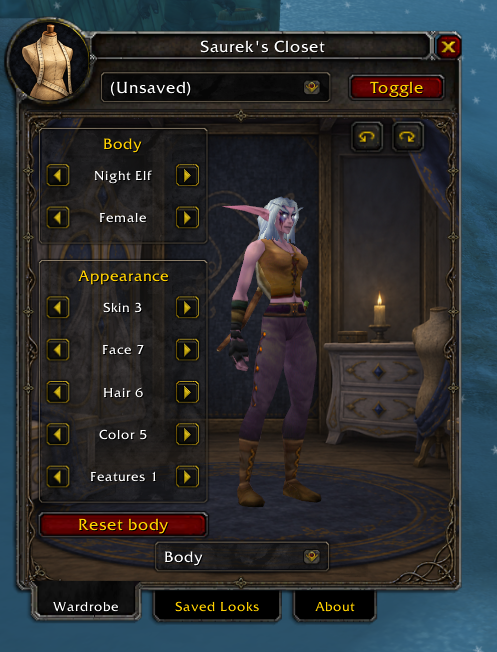
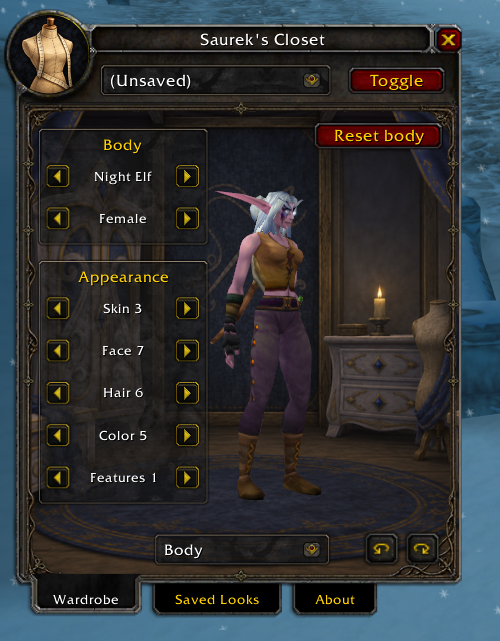
Update README and Body screenshot

diff --git a/addon/SaureksCloset/README.md b/addon/SaureksCloset/README.md
@@ -1,14 +1,8 @@
 <div align="center">
 
-# Saurek's Closet
+# Saurek's Closet - A new look for your adventures in Azeroth
 
-**A new look for your adventures in Azeroth.**
-
-Customize your armor, change your character's appearance, and build a collection of saved looks—all from a wardrobe designed to feel at home in Vanilla WoW.
-
-**World of Warcraft 1.12.1 · Build 5875 · Windows · Version 3.4.15**
-
-Made by **Saurek**
+**World of Warcraft 1.12.1 · Build 5875**
 
 </div>
 
@@ -18,7 +12,7 @@ Saurek's Closet changes how your character looks on your own client. Your actual
 
 - **Dress your character:** browse the item database, filter by quality and type, and preview an item before activating it.
 - **Choose what shows:** customize an armor slot, hide it, or pass through your real equipment.
-- **Customize your body:** change race, gender, skin, face, hair, and available features. Cycle through options with arrows or choose directly from a dropdown.
+- **Customize your body:** change race, gender, skin, face, hair, and available features.
 - **Arrange your weaponry:** select appearances for both sides of the waist, both sides of the back, a shield, a ranged weapon, and a quiver.
 - **Save your favorites:** name new looks, update existing ones, and switch between them from the quick-selection dropdown.
 
@@ -34,21 +28,13 @@ The wardrobe shows your character in a live 3D preview, with armor slots arrange
 
 ![Body and appearance controls beside the character preview](Screenshots/2.png)
 
-The **Body** view keeps your character visible while you change race and gender, then fine-tune skin, face, hairstyle, hair color, and available facial features. Use the left and right arrows to cycle through options, or click a value to choose from its dropdown. Changes apply immediately. **Reset body** restores your character's original body appearance.
-
 ### Weaponry
 
 ![Waist, back, shield, ranged weapon, and quiver appearance slots](Screenshots/3.png)
 
-The **Weaponry** view groups placements by position: left and right waist, left and right back, shield, ranged weapon, and quiver. Each slot has its own appearance selection, so several weapons can be displayed together. Matching weapon appearances move into your hands when drawn according to the type actually equipped; other placements stay stored. See the weapon behavior notes below for the current limitations.
-
 ### Saved Looks
 
 ![Saved looks with portraits, customized-slot counts, and an active-look indicator](Screenshots/4.png)
-
-**Saved Looks** brings your collection together in a scrollable list. Each tile shows a race-and-gender portrait and the number of customized slots; the green eye identifies the active look. Edits appear in the single **(Unsaved)** entry until you save them. Click a tile to open its outfit preview, where you can activate, rename, or delete a saved look. Open **(Unsaved)** to save a new look or save your changes to an existing outfit.
-
-*Screenshots show a recent build; some control positions have since been refined.*
 
 ## Installation
 
@@ -61,7 +47,7 @@ The **Weaponry** view groups placements by position: left and right waist, left 
 
 ### Install the release
 
-1. Fully close World of Warcraft and extract your download. In a GitHub source download, the addon folder is inside `addon/`.
+1. Fully close World of Warcraft and extract the release ZIP.
 2. Copy the `SaureksCloset` folder into `Interface/AddOns/`.
 3. Open the addon's **[Installation instructions](Installation%20instructions/)** folder. Copy the included `SaureksCloset.dll` into your main game folder, beside `WoW.exe`. The short [setup guide](Installation%20instructions/READ%20ME.txt) explains where to drag it.
 4. Add `SaureksCloset.dll` to `dlls.txt`, after `VanillaHelpers.dll`. Keep any other DLL entries you already use.
@@ -91,8 +77,6 @@ The full release also includes an optional Python 3 installer, which verifies th
 py -3 install.py "C:\Games\World of Warcraft"
 ```
 
-For upgrades from the old VanityStudio or numbered addon folders, use this installer to migrate settings. Back up your `WTF` folder before a manual migration.
-
 ## Make your first look
 
 1. Click the minimap button or type **`/closet`**.
@@ -109,27 +93,3 @@ Several custom weapons can be displayed at once. When you draw weapons, matching
 
 Weaponry is still being refined. Some combinations may clip, and attachment positions cannot yet be adjusted manually. The **Bags** view is a placeholder; bag appearance customization is not available yet.
 
-## Useful commands
-
-| Command | Action |
-| --- | --- |
-| `/closet` | Open or close the wardrobe |
-| `/closet body` | Open Body customization |
-| `/closet outfits` | Open Saved Looks |
-| `/closet next` / `/closet prev` | Cycle through saved looks |
-| `/closet on` / `/closet off` | Enable or disable local appearances |
-| `/closet diagnose` | Show diagnostic information for troubleshooting |
-
-## Feedback & support
-
-Hello and welcome to my Saurek's Closet addon! If you have any feedback or problems, please [open an issue](https://github.com/mu-arch/SaureksCloset/issues). No question is too stupid. Reach out to me and I'll get back to you when I have a chance.
-
-When reporting a problem, include your **About-page version**, what you were doing, and a screenshot or the exact error message. If the interface updates but customization does not work, check that you also copied the release's DLL and fully restarted through VanillaFixes.
-
-— **Saurek**
-
-## Credits & source
-
-Created by **Saurek**. Built for the original Vanilla interface, with support from VanillaFixes and VanillaHelpers.
-
-The addon lives in `addon/SaureksCloset/`. DLL source is in `native/`, with build tools in `tools/` and tests in `tests/`. See [the build guide](../../BUILDING.md) and the included license notices. Catalog attribution is documented in [CATALOG-COPYRIGHT.md](CATALOG-COPYRIGHT.md) and [CATALOG-LICENSE.md](CATALOG-LICENSE.md); artwork provenance is recorded in [ARTWORK.json](ARTWORK.json).
